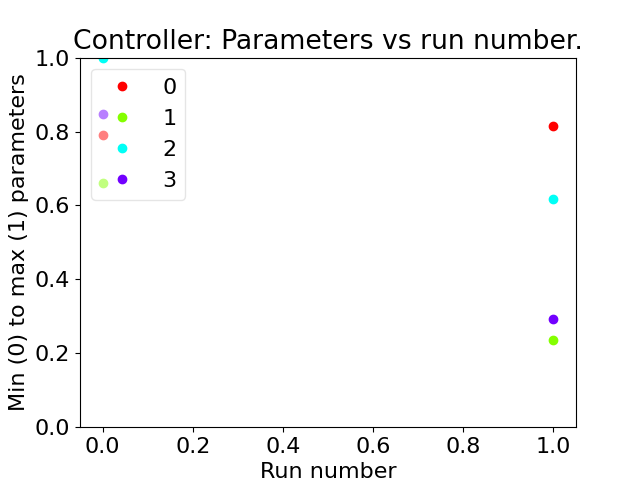
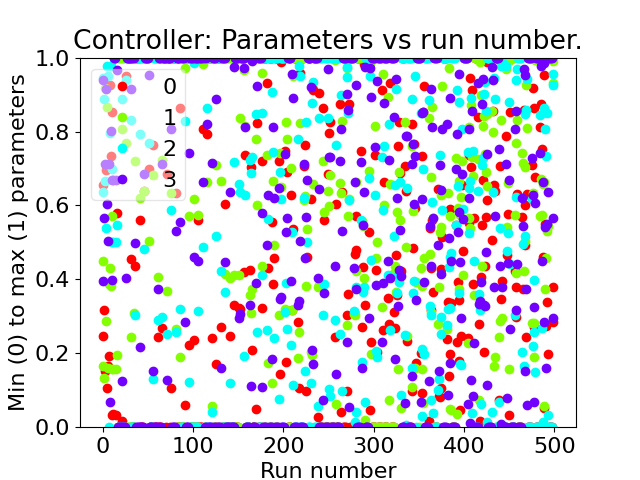
changed m_loop iteration number

Changed region(s): [[0.125, 0.125, 0.9062, 0.9688]]

diff --git a/test_hysteresis_fc.py b/test_hysteresis_fc.py
@@ -78,10 +78,10 @@ class HysteresisFCTest:
 
         plt.xlabel(f"Motor {motor_idx} Command")
         plt.ylabel("Voltage")
-        plt.title(f"Hysteresis - Motor 9")#{motor_idx}")
+        plt.title(f"Hysteresis - Motor {motor_idx}")
         plt.legend()
         plt.grid()
-        plt.savefig(f"full_hysteresis_fc_steps1_motor_{motor_idx}.png", dpi=300)
+        plt.savefig(f".Data/full_hysteresis_fc_steps1_motor_{motor_idx}.png", dpi=300)
         plt.close()
 
     def compute_hysteresis_metrics(self, f_cmd, b_cmd, f_meas, b_meas):

diff --git a/m_loop.py b/m_loop.py
@@ -65,7 +65,7 @@ def run_mloop(target_voltage=None):
     max_boundary = [min(4095, 4095) for pos in init_positions]
 
     controller = mlc.create_controller(interface,
-                                       max_num_runs=2,#M_LOOP_ITERATIONS,
+                                       max_num_runs=M_LOOP_ITERATIONS,
                                        num_params=num_servos,
                                        min_boundary=min_boundary,
                                        max_boundary=max_boundary,

diff --git a/configuration.py b/configuration.py
@@ -28,4 +28,4 @@ SEC_CAMERA_EXP_TIME = 1#40000 #500#11000
 
 SERVO_TURNS = [0, 0, 0, 0]
 
-SERVOS_TEST_POS = [ 1034, 2309,  1766, 3091]#[306, 3098, 672, 2052]#[2479,  495, 3388, 2160] # [2135, 840, 1054, 950]
+SERVOS_TEST_POS = [ 3080, 60,  1529, 2884]
